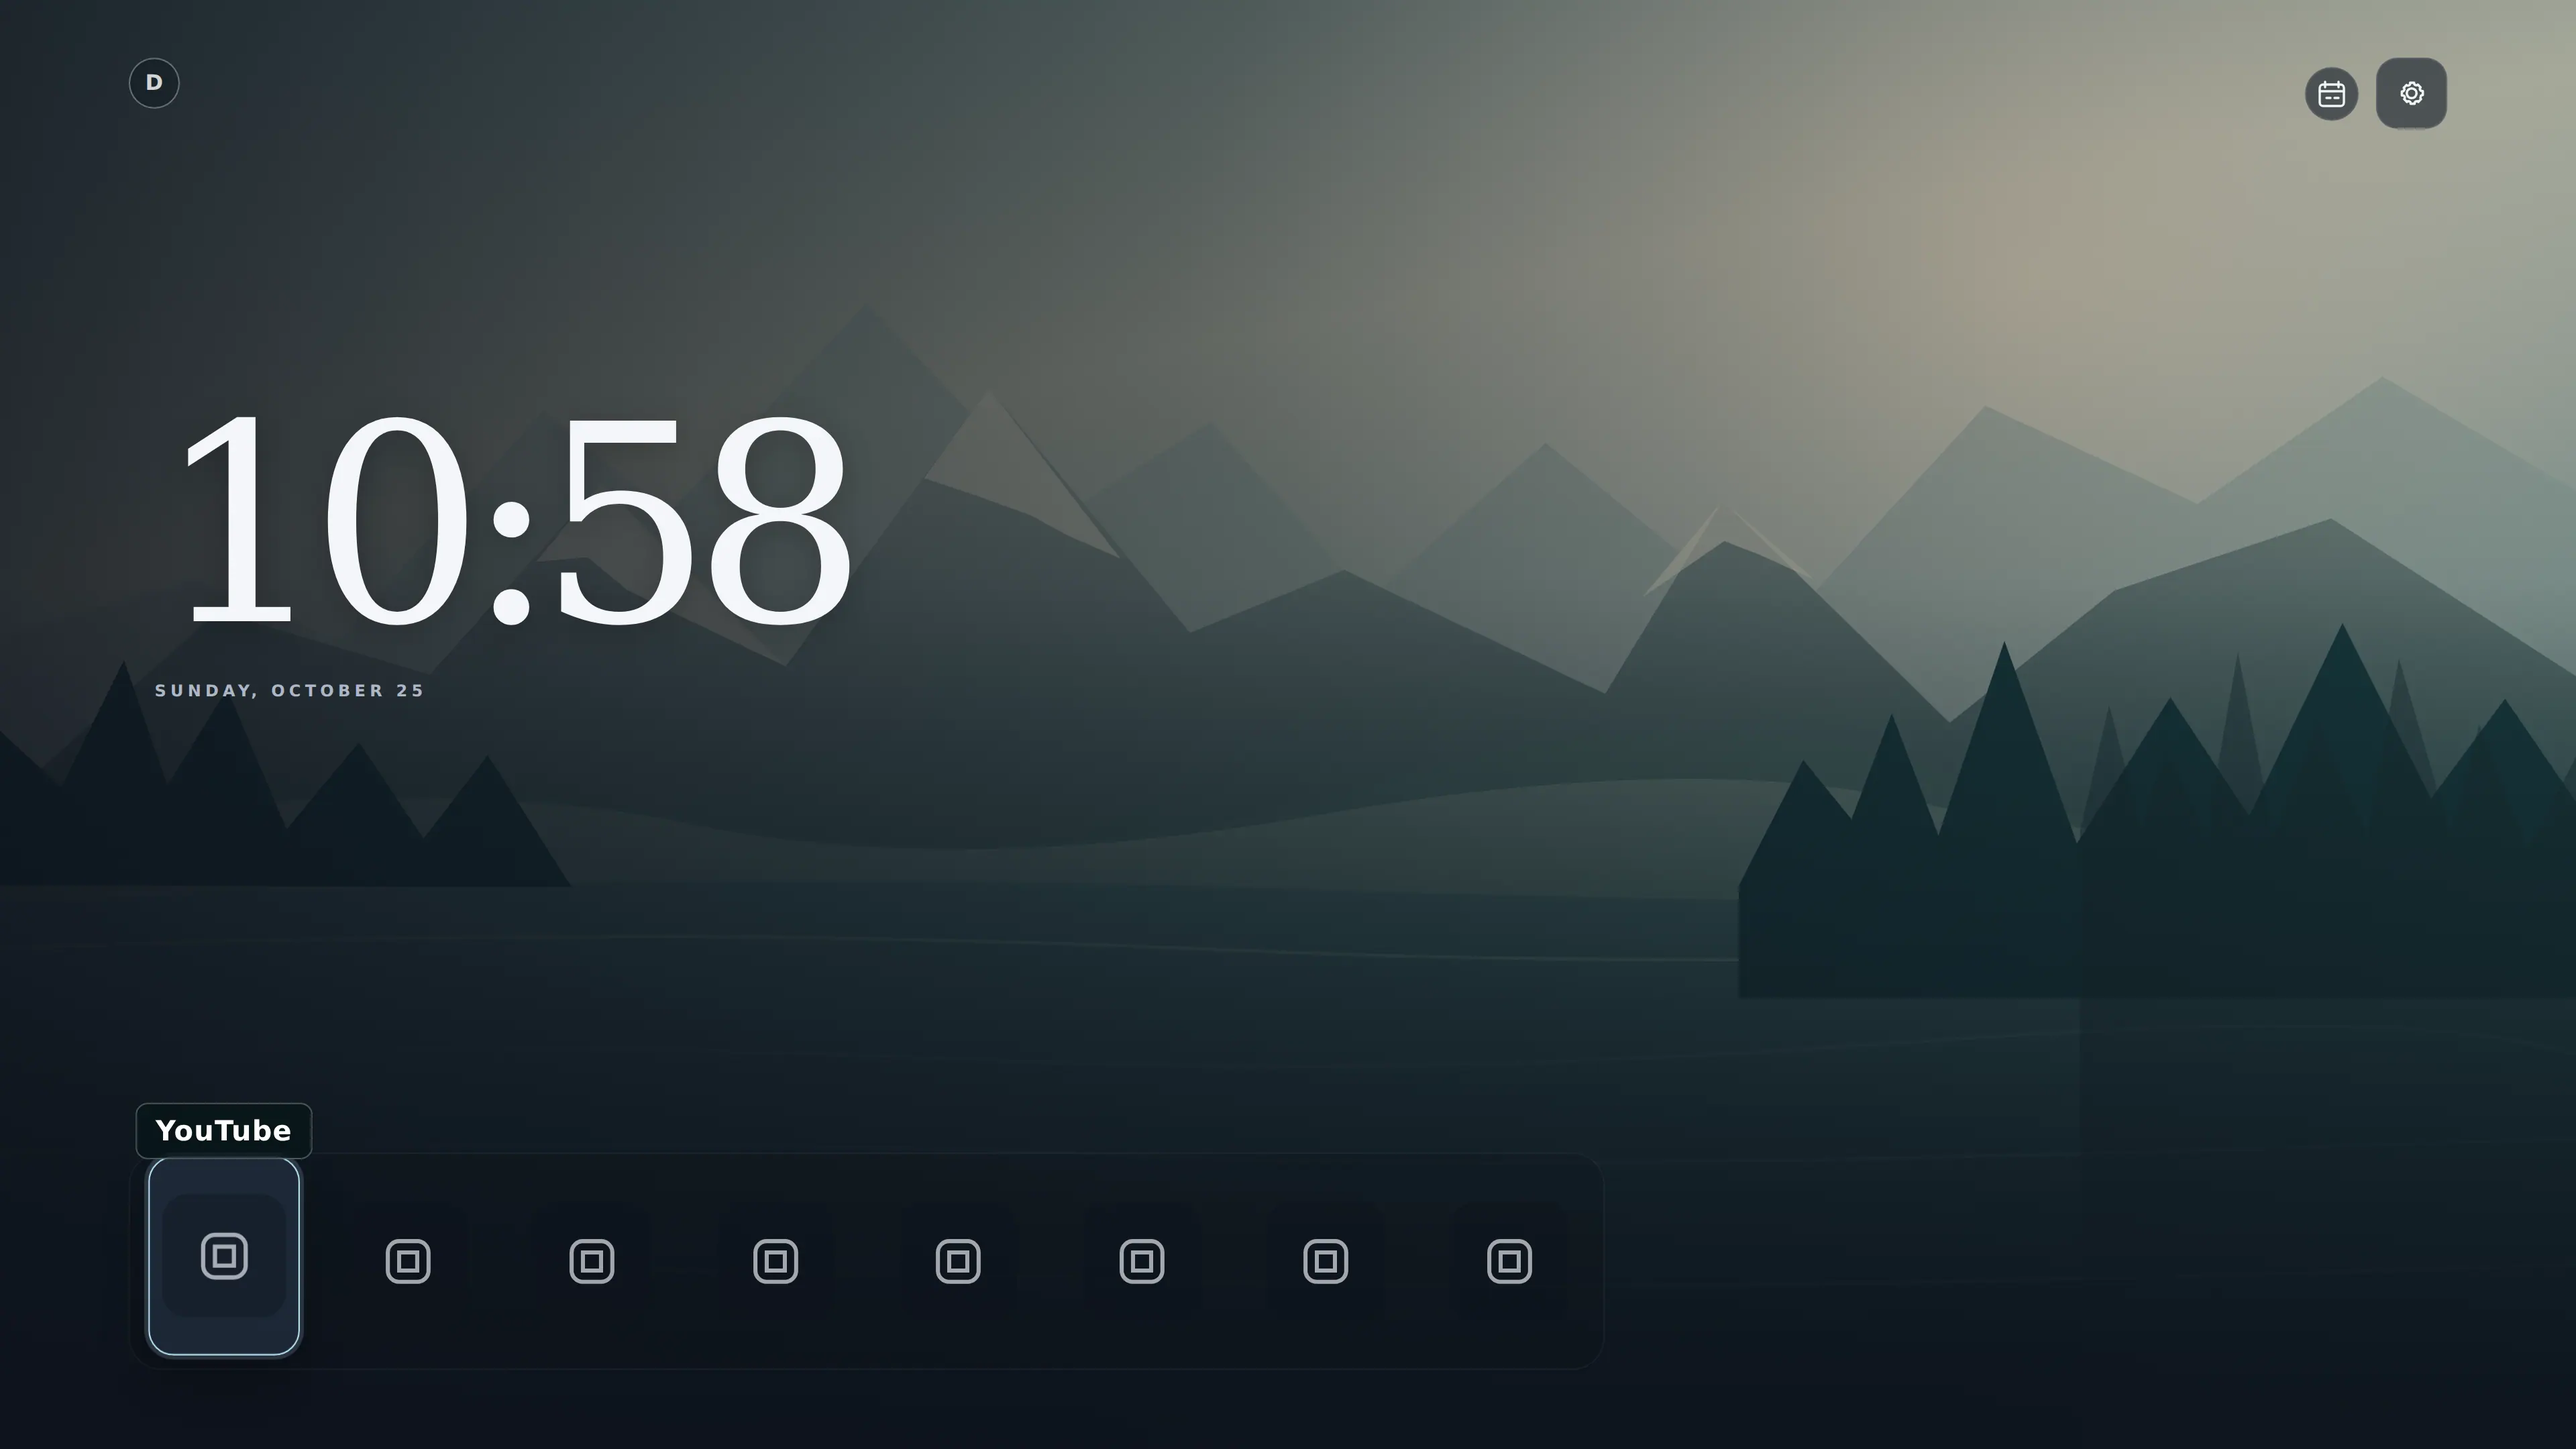
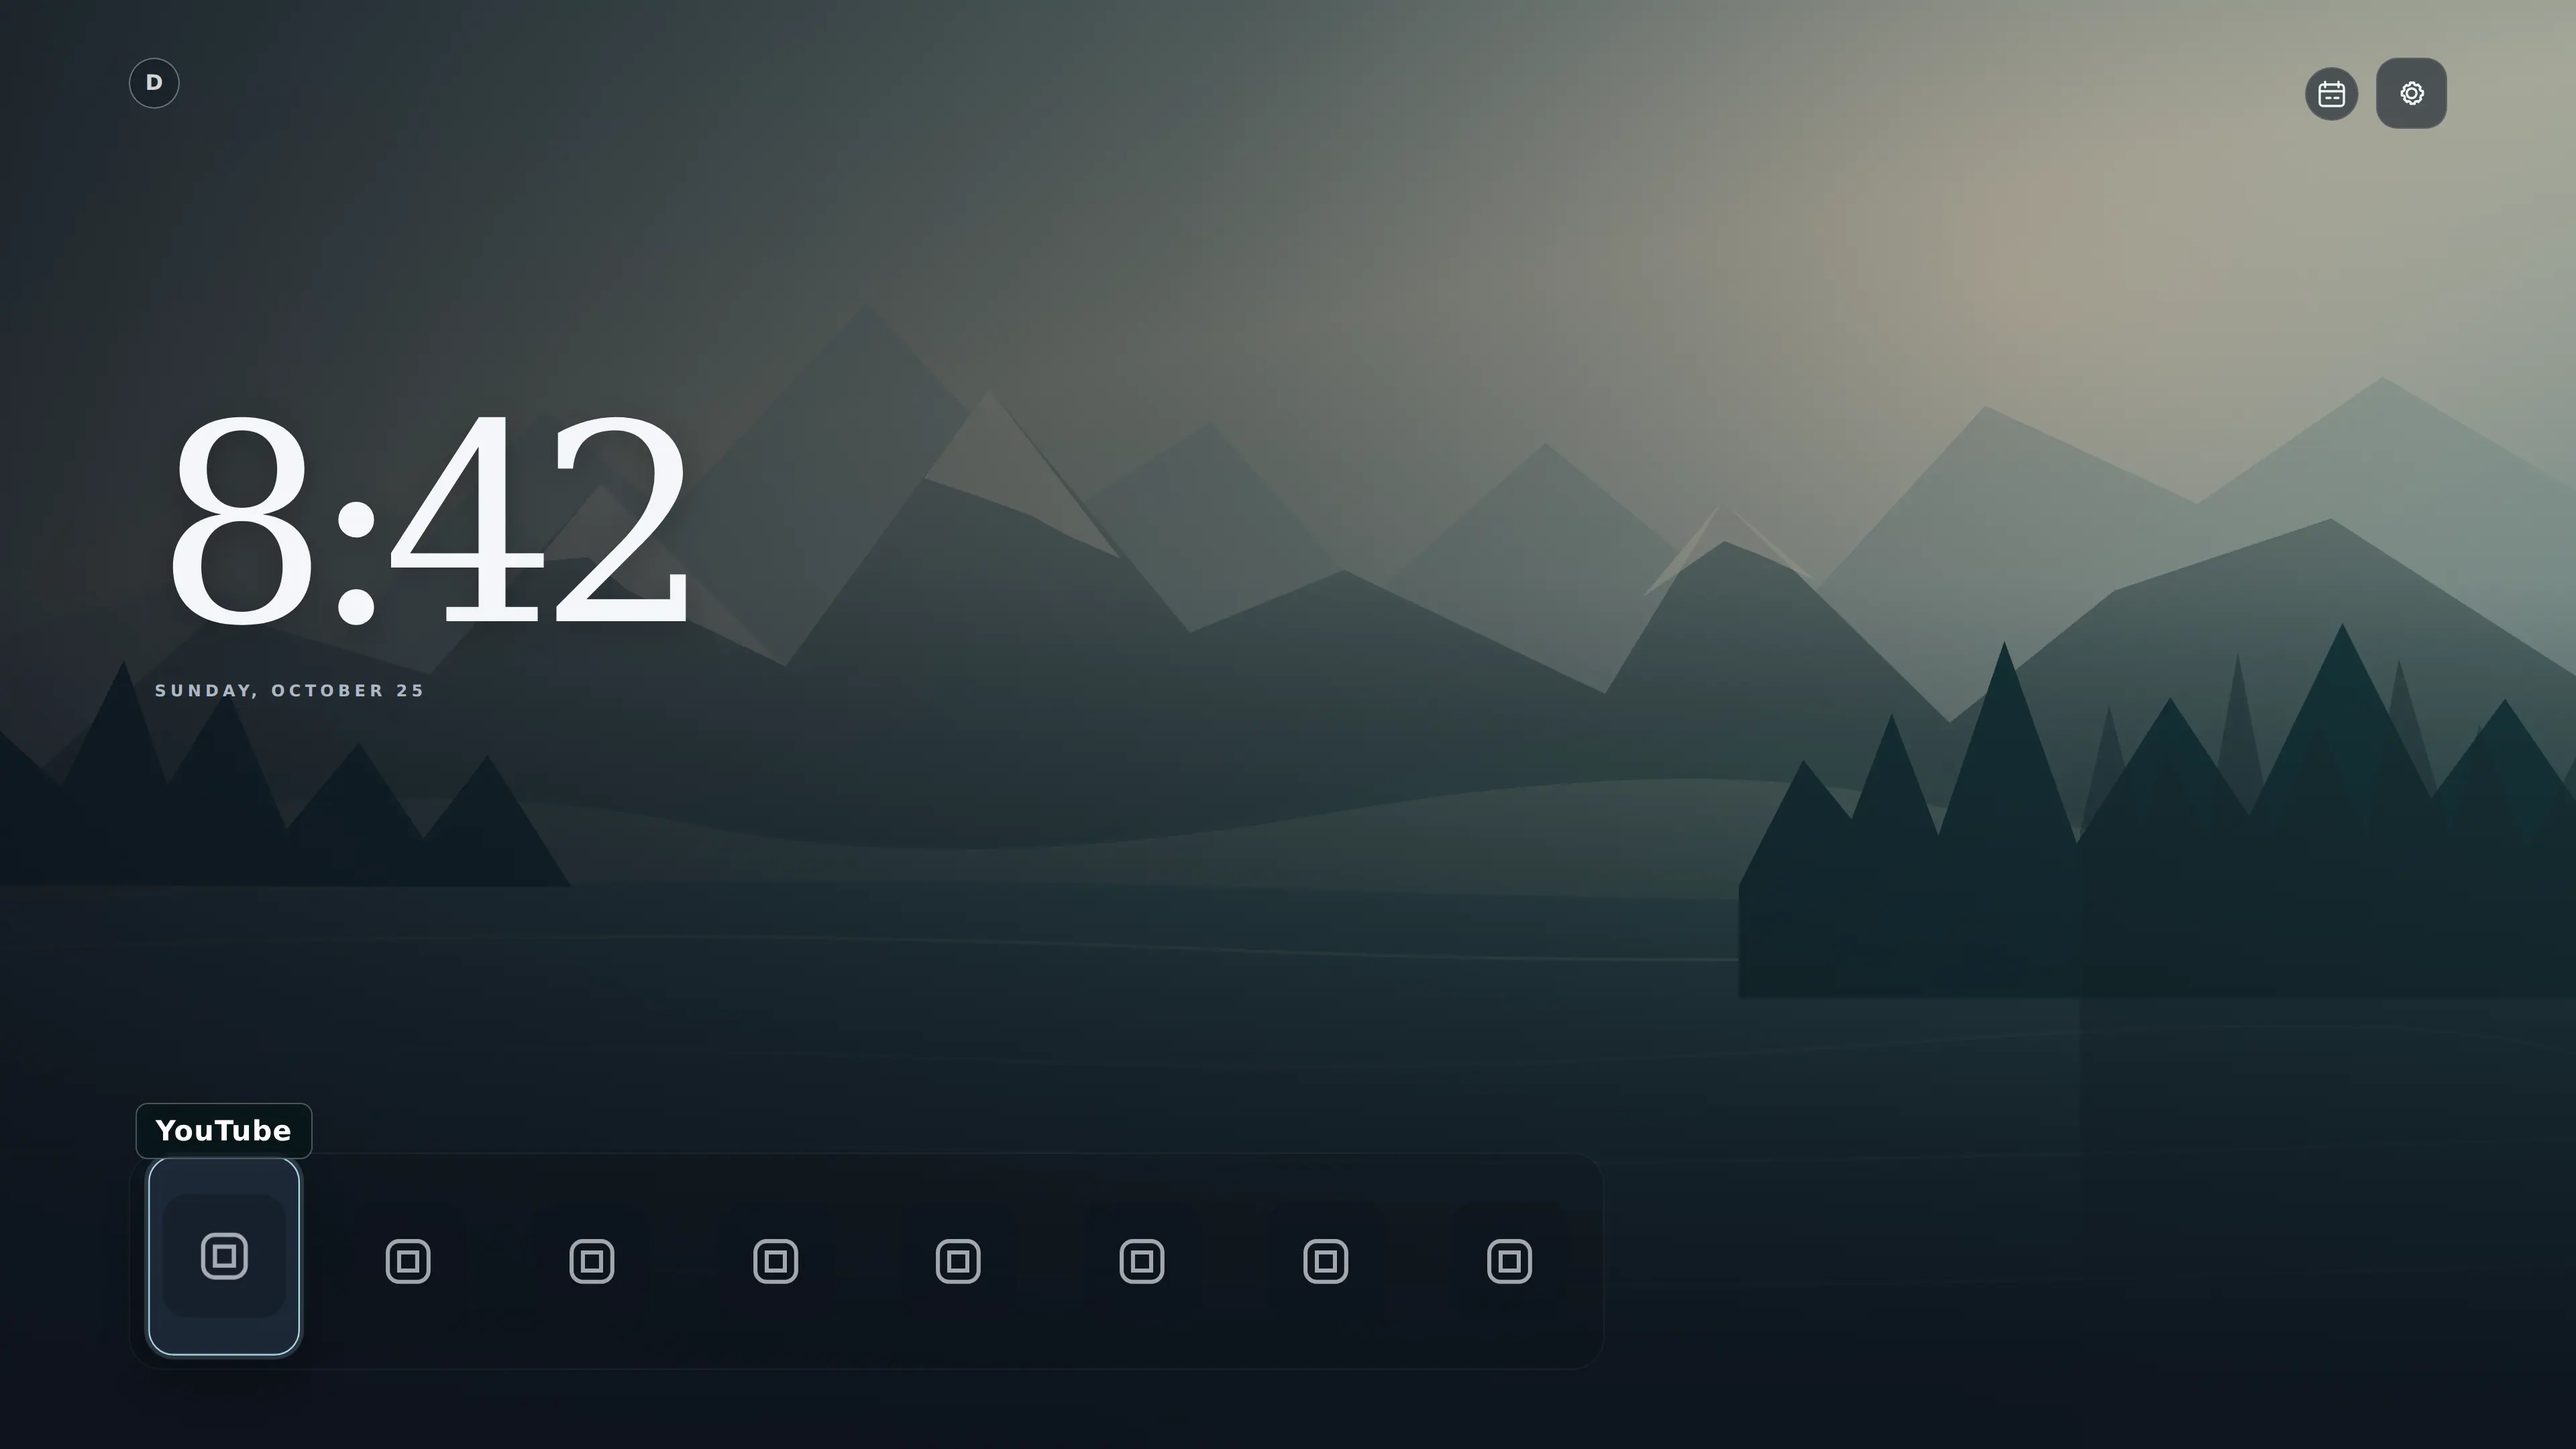
Extend quiet glass viewport and deterministic 4K review checks

Changed region(s): [[0.0625, 0.2792, 0.3438, 0.4343]]

diff --git a/docs/QUIET_GLASS_V1_REVIEW.md b/docs/QUIET_GLASS_V1_REVIEW.md
@@ -56,6 +56,8 @@ The update emphasizes readable Now/Next, a known field and a stronger single foc
 
 `home-4k-scaling.webp` is rendered as **1920 CSS pixels × DPR 2**, yielding 3840 × 2160 image pixels. Reproduce locally with `VELA_CHROMIUM_PATH=/path/to/chromium node scripts/capture-quiet-glass.cjs`; this optional script requires locally installed `playwright` and `sharp`, not part of the TV application or its CI dependencies.
 
+The optional browser capture now asserts that the paired phone remote fits without vertical scrolling at **320×568, 375×667, 390×844 and 430×932**, with a visible TV-switch pill. It also prints elapsed time to first Home app card in desktop headless Chromium (one local sample: ~104 ms). This is a synthetic DOM-readiness diagnostic, **not** Android cold-start latency, Sony memory use, Safari validation, or a production performance benchmark. The 4K screen now uses the same fixed preview clock as 1080p for repeatable snapshots.
+
 ## Platform and security boundaries
 
 | Sony Android/Google TV | Samsung Tizen |
